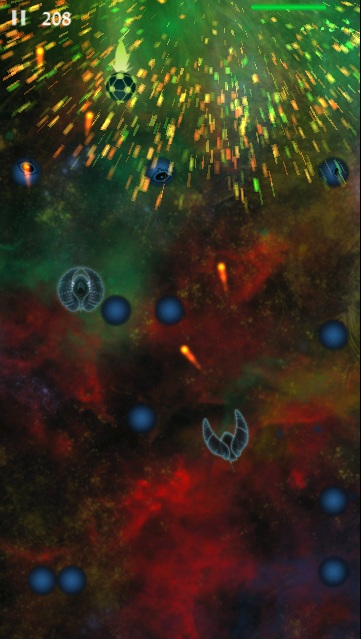
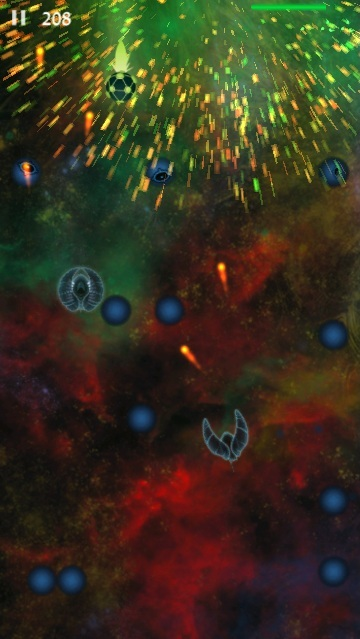
Added carousel buttons to lined up Breach images

diff --git a/projects/project-1.html b/projects/project-1.html
@@ -97,7 +97,13 @@
     <button class="lightbox-close" id="lightbox-close" aria-label="Close">
       <svg viewBox="0 0 24 24"><line x1="18" y1="6" x2="6" y2="18"/><line x1="6" y1="6" x2="18" y2="18"/></svg>
     </button>
+    <button class="lightbox-prev" id="lightbox-prev" aria-label="Previous">
+      <svg viewBox="0 0 24 24"><polyline points="15 18 9 12 15 6"/></svg>
+    </button>
     <img id="lightbox-img" src="" alt="" />
+    <button class="lightbox-next" id="lightbox-next" aria-label="Next">
+      <svg viewBox="0 0 24 24"><polyline points="9 18 15 12 9 6"/></svg>
+    </button>
   </div>
 
   <script>
@@ -105,40 +111,69 @@
       const overlay  = document.getElementById('lightbox');
       const lbImg    = document.getElementById('lightbox-img');
       const closeBtn = document.getElementById('lightbox-close');
+      const prevBtn  = document.getElementById('lightbox-prev');
+      const nextBtn  = document.getElementById('lightbox-next');
 
-      function open(src, alt) {
-        lbImg.src = src;
-        lbImg.alt = alt || '';
+      let currentGroup = null;
+      let currentIndex = 0;
+
+      const gridSelectors = '.block-image-grid img, .block-image-grid-3 img, .block-image-grid-4 img, .block-image-grid-5 img';
+      const gridParents   = '.block-image-grid, .block-image-grid-3, .block-image-grid-4, .block-image-grid-5';
+
+      function open(img) {
+        const parent = img.closest(gridParents);
+        if (parent) {
+          currentGroup = Array.from(parent.querySelectorAll('img'));
+          currentIndex = currentGroup.indexOf(img);
+        } else {
+          currentGroup = null;
+          currentIndex = 0;
+        }
+        lbImg.src = img.src;
+        lbImg.alt = img.alt || '';
         overlay.classList.add('active');
         document.body.style.overflow = 'hidden';
+        updateArrows();
+      }
+
+      function updateArrows() {
+        const show = currentGroup && currentGroup.length > 1;
+        prevBtn.style.display = show ? 'flex' : 'none';
+        nextBtn.style.display = show ? 'flex' : 'none';
+      }
+
+      function navigate(dir) {
+        if (!currentGroup) return;
+        currentIndex = (currentIndex + dir + currentGroup.length) % currentGroup.length;
+        lbImg.src = currentGroup[currentIndex].src;
+        lbImg.alt = currentGroup[currentIndex].alt || '';
+        updateArrows();
       }
 
       function close() {
         overlay.classList.remove('active');
         document.body.style.overflow = '';
-        // small delay so the image doesn't flash away before fade
         setTimeout(() => { lbImg.src = ''; }, 200);
       }
 
-      // Attach click to all content images (not the lightbox image itself)
-      document.querySelectorAll('.block-image img, .block-image-grid img')
+      document.querySelectorAll('.block-image img, ' + gridSelectors)
         .forEach(function (img) {
-          img.addEventListener('click', function () {
-            open(img.src, img.alt);
-          });
+          img.addEventListener('click', function () { open(img); });
         });
 
-      // Close on overlay backdrop click (not on the image)
       overlay.addEventListener('click', function (e) {
         if (e.target === overlay) close();
       });
 
-      // Close button
       closeBtn.addEventListener('click', close);
+      prevBtn.addEventListener('click', function (e) { e.stopPropagation(); navigate(-1); });
+      nextBtn.addEventListener('click', function (e) { e.stopPropagation(); navigate(1); });
 
-      // Close on Escape key
       document.addEventListener('keydown', function (e) {
-        if (e.key === 'Escape' && overlay.classList.contains('active')) close();
+        if (!overlay.classList.contains('active')) return;
+        if (e.key === 'Escape')      close();
+        if (e.key === 'ArrowLeft')   navigate(-1);
+        if (e.key === 'ArrowRight')  navigate(1);
       });
     })();
   </script>

diff --git a/projects/project-3.html b/projects/project-3.html
@@ -120,7 +120,13 @@
     <button class="lightbox-close" id="lightbox-close" aria-label="Close">
       <svg viewBox="0 0 24 24"><line x1="18" y1="6" x2="6" y2="18"/><line x1="6" y1="6" x2="18" y2="18"/></svg>
     </button>
+    <button class="lightbox-prev" id="lightbox-prev" aria-label="Previous">
+      <svg viewBox="0 0 24 24"><polyline points="15 18 9 12 15 6"/></svg>
+    </button>
     <img id="lightbox-img" src="" alt="" />
+    <button class="lightbox-next" id="lightbox-next" aria-label="Next">
+      <svg viewBox="0 0 24 24"><polyline points="9 18 15 12 9 6"/></svg>
+    </button>
   </div>
 
   <script>
@@ -128,40 +134,69 @@
       const overlay  = document.getElementById('lightbox');
       const lbImg    = document.getElementById('lightbox-img');
       const closeBtn = document.getElementById('lightbox-close');
+      const prevBtn  = document.getElementById('lightbox-prev');
+      const nextBtn  = document.getElementById('lightbox-next');
 
-      function open(src, alt) {
-        lbImg.src = src;
-        lbImg.alt = alt || '';
+      let currentGroup = null;
+      let currentIndex = 0;
+
+      const gridSelectors = '.block-image-grid img, .block-image-grid-3 img, .block-image-grid-4 img, .block-image-grid-5 img';
+      const gridParents   = '.block-image-grid, .block-image-grid-3, .block-image-grid-4, .block-image-grid-5';
+
+      function open(img) {
+        const parent = img.closest(gridParents);
+        if (parent) {
+          currentGroup = Array.from(parent.querySelectorAll('img'));
+          currentIndex = currentGroup.indexOf(img);
+        } else {
+          currentGroup = null;
+          currentIndex = 0;
+        }
+        lbImg.src = img.src;
+        lbImg.alt = img.alt || '';
         overlay.classList.add('active');
         document.body.style.overflow = 'hidden';
+        updateArrows();
+      }
+
+      function updateArrows() {
+        const show = currentGroup && currentGroup.length > 1;
+        prevBtn.style.display = show ? 'flex' : 'none';
+        nextBtn.style.display = show ? 'flex' : 'none';
+      }
+
+      function navigate(dir) {
+        if (!currentGroup) return;
+        currentIndex = (currentIndex + dir + currentGroup.length) % currentGroup.length;
+        lbImg.src = currentGroup[currentIndex].src;
+        lbImg.alt = currentGroup[currentIndex].alt || '';
+        updateArrows();
       }
 
       function close() {
         overlay.classList.remove('active');
         document.body.style.overflow = '';
-        // small delay so the image doesn't flash away before fade
         setTimeout(() => { lbImg.src = ''; }, 200);
       }
 
-      // Attach click to all content images (not the lightbox image itself)
-      document.querySelectorAll('.block-image img, .block-image-grid img, .block-image-grid-3 img, .block-image-grid-4 img, .block-image-grid-5 img')
+      document.querySelectorAll('.block-image img, ' + gridSelectors)
         .forEach(function (img) {
-          img.addEventListener('click', function () {
-            open(img.src, img.alt);
-          });
+          img.addEventListener('click', function () { open(img); });
         });
 
-      // Close on overlay backdrop click (not on the image)
       overlay.addEventListener('click', function (e) {
         if (e.target === overlay) close();
       });
 
-      // Close button
       closeBtn.addEventListener('click', close);
+      prevBtn.addEventListener('click', function (e) { e.stopPropagation(); navigate(-1); });
+      nextBtn.addEventListener('click', function (e) { e.stopPropagation(); navigate(1); });
 
-      // Close on Escape key
       document.addEventListener('keydown', function (e) {
-        if (e.key === 'Escape' && overlay.classList.contains('active')) close();
+        if (!overlay.classList.contains('active')) return;
+        if (e.key === 'Escape')      close();
+        if (e.key === 'ArrowLeft')   navigate(-1);
+        if (e.key === 'ArrowRight')  navigate(1);
       });
     })();
   </script>

diff --git a/projects/project-page.css b/projects/project-page.css
@@ -446,3 +446,39 @@ body {
   stroke-linecap: round;
 }
 
+/* Prev / next arrow buttons */
+.lightbox-prev,
+.lightbox-next {
+  flex-shrink: 0;
+  width: 36px;
+  height: 36px;
+  border: none;
+  background: transparent;
+  border-radius: 50%;
+  cursor: pointer;
+  display: flex;
+  align-items: center;
+  justify-content: center;
+  transition: background 0.15s, opacity 0.15s;
+  z-index: 1001;
+  margin: 0 0.75rem;
+  opacity: 0.35;
+}
+
+.lightbox-prev:hover,
+.lightbox-next:hover {
+  background: rgba(255,255,255,0.1);
+  opacity: 0.8;
+}
+
+.lightbox-prev svg,
+.lightbox-next svg {
+  width: 20px;
+  height: 20px;
+  stroke: #fff;
+  fill: none;
+  stroke-width: 2;
+  stroke-linecap: round;
+  stroke-linejoin: round;
+}
+